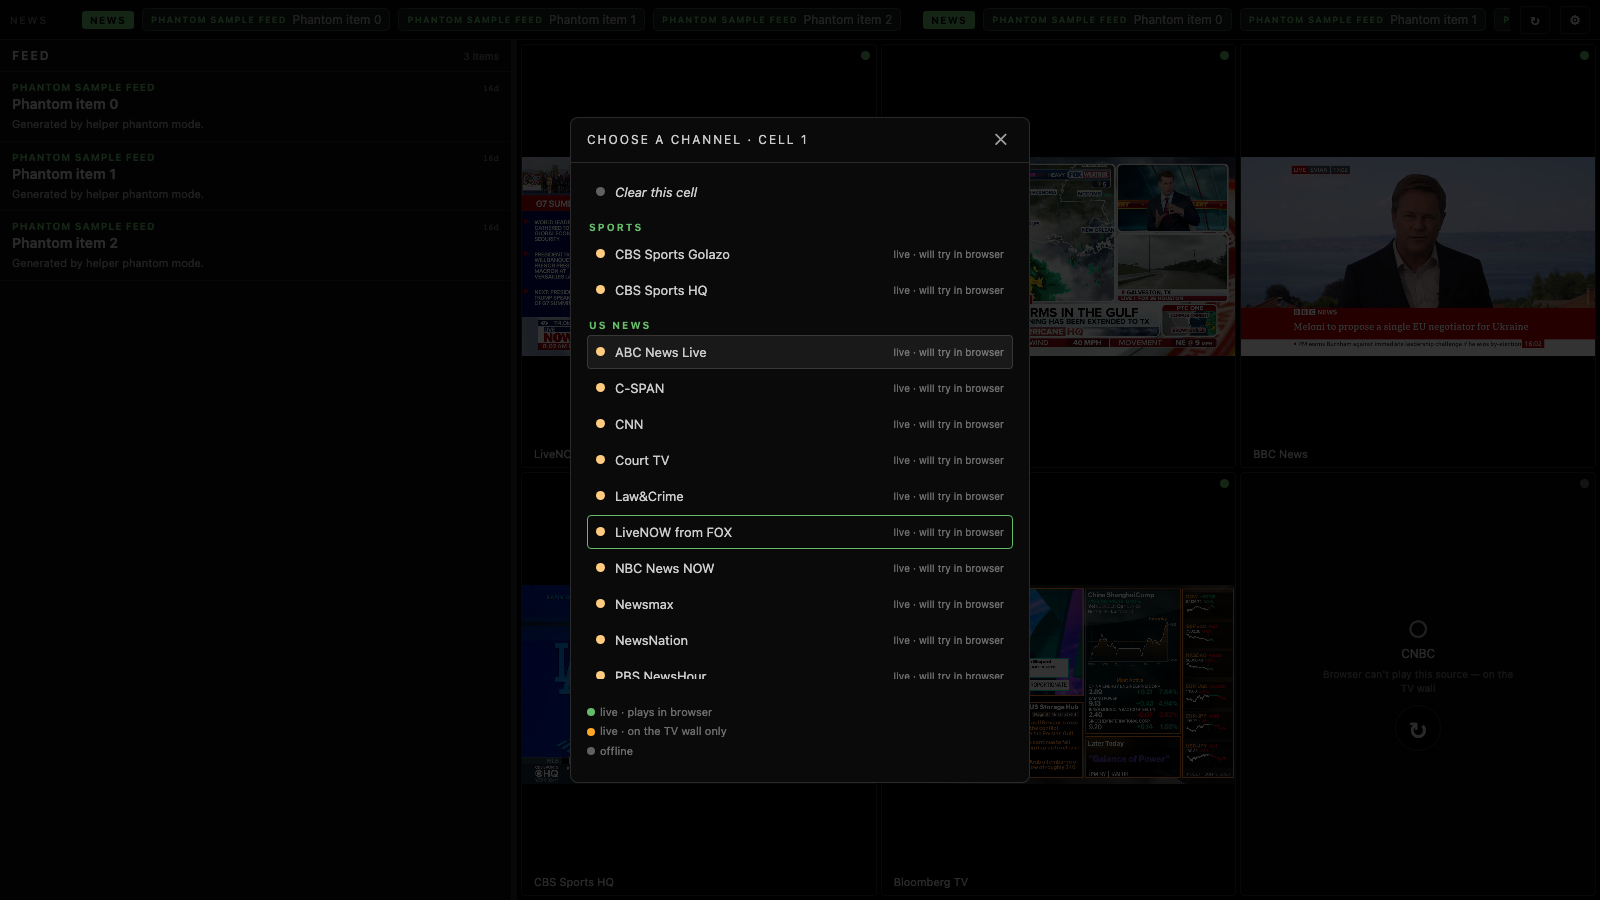
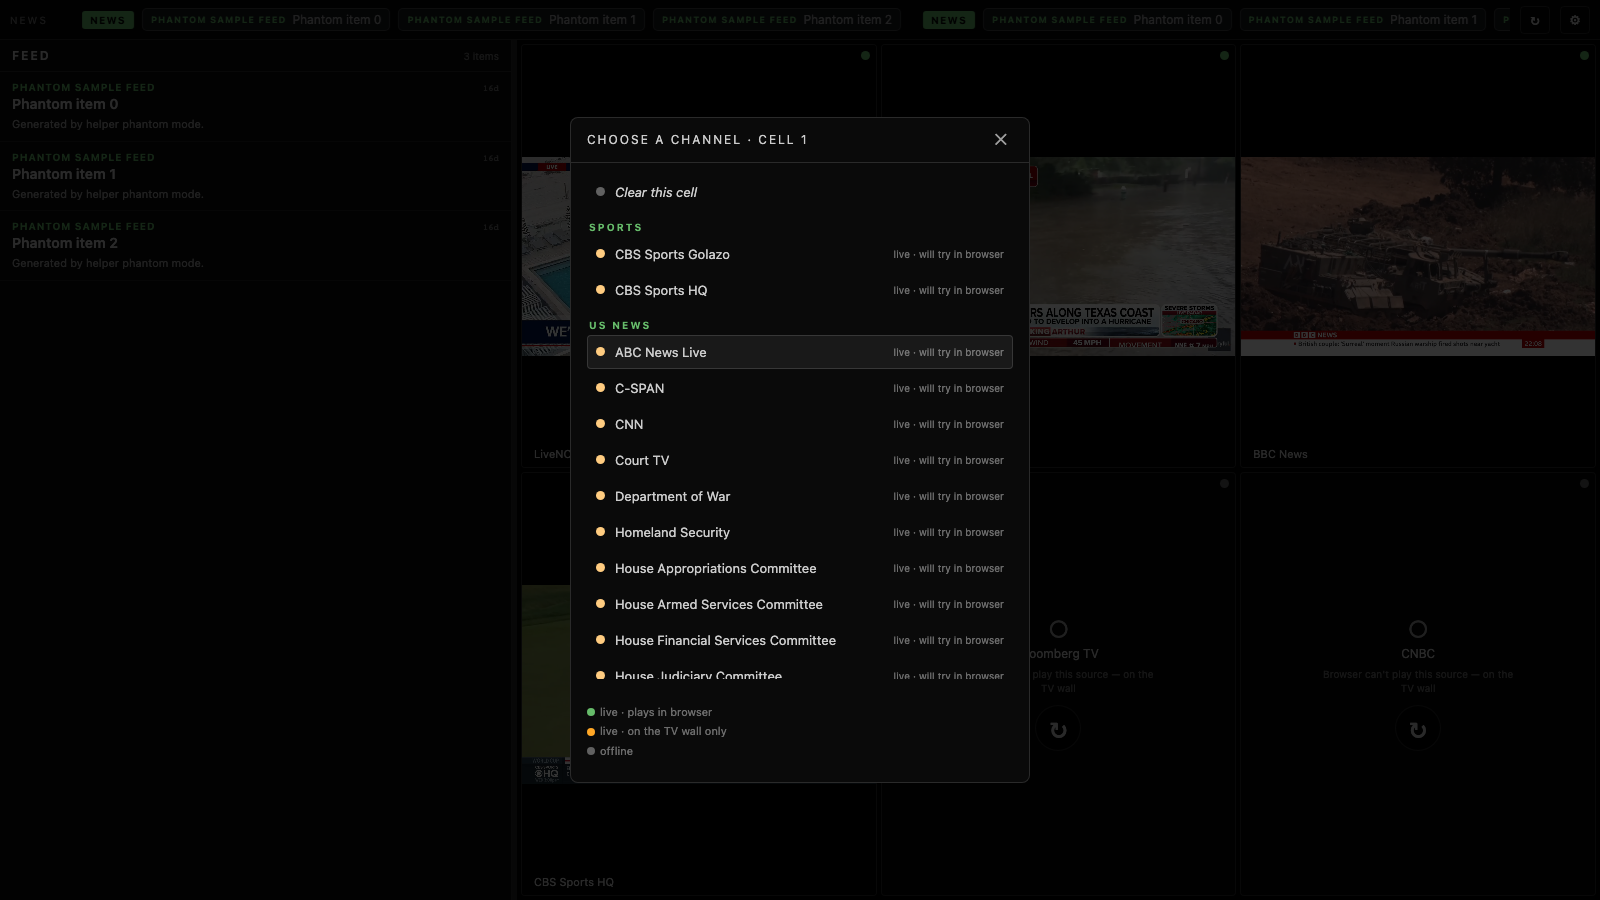
docs: regenerate channel-picker gallery shot for the 49-channel lineup
The committed channel-picker.png predated the government feeds; regenerated
against the current 49-channel phantom seed so the US News section now shows
the free gov feeds (Senate floor, committee hearings, House committees,
federal agencies). Only this shot materially drifted — the wall/menu/settings/
ticker shots are structure-only and were deliberately left unchurned.

diff --git a/docs/screenshots/README.md b/docs/screenshots/README.md
@@ -23,7 +23,7 @@ screenshots show exactly that.
 | `menu.png` | The **native-style side menu** (the gear opens it) — a CHANNELS list (one row per slot) + WALL actions (Settings, Resync), mirroring the TV app's MenuOverlay (the old flat WALL SETTINGS modal is gone). |
 | `settings.png` | The settings modal (reached from the side menu) — grid rows×cols (**2×3 default**), feed width/size/recency, feed-source toggles **grouped by category**, the **captions-off** toggle, ticker speed/motion, sports-league toggles. |
 | `slot-controls.png` | The **per-slot controls** (click a tile / a menu channel row) — Channel · Audio · Reconnect · Close, the web analog of the native SlotControlsOverlay. No captions row (these streams' captions are burned-in / unremovable). |
-| `channel-picker.png` | The channel picker (opened from a slot's Channel row) — the channel lineup **sectioned by category** (Sports / US News / Global News / …) with the honest **live / on-the-TV-wall-only / offline** legend. |
+| `channel-picker.png` | The channel picker (opened from a slot's Channel row) — the channel lineup **sectioned by category** (Sports / US News / Global News / …) with the honest **live / on-the-TV-wall-only / offline** legend. The US News section now includes the free **government** feeds (Senate floor, live Senate committee hearings, House committees, federal agencies). |
 | `feed-story-highlighted.png` | A feed headline **selected** (accent-bar highlight) — the highlight→select interaction, keyboard/remote-friendly. |
 | `feed-story-expanded.png` | The **news-story detail** (expand) — the item's own source / time / title / summary (inert plain text) + a "Read at source ↗" link-out. MyMTS never fetches the article itself (A1). |
 
